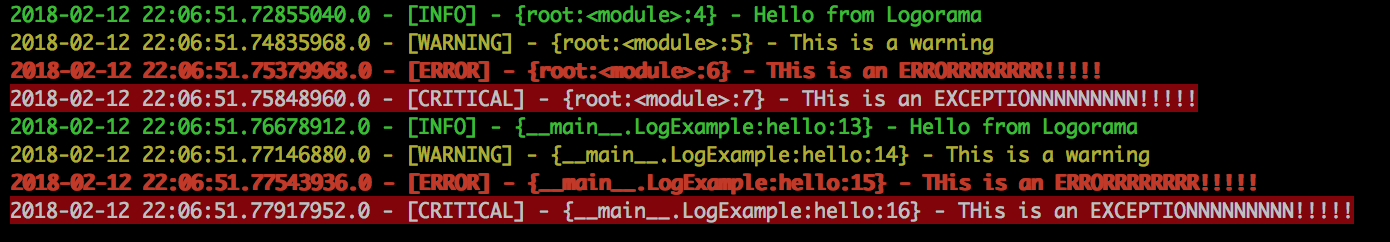
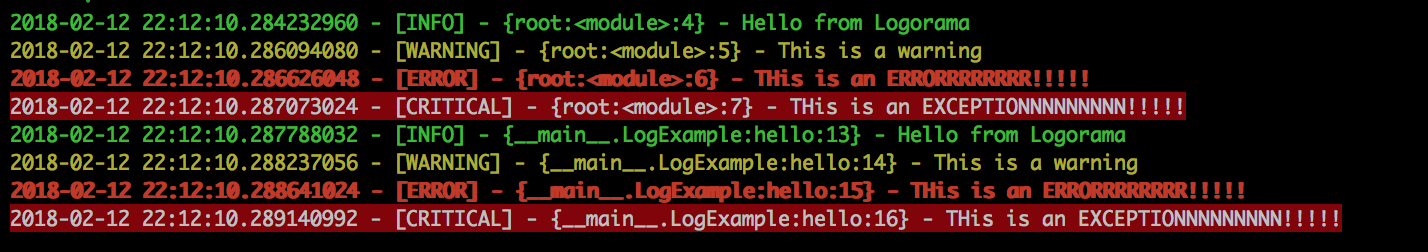
Added another logger example

diff --git a/README.md b/README.md
@@ -28,5 +28,39 @@ log_ex.hello()
 
 ![alt text](./example1.png "Example 1")
 
+Here is another example. We activate **DEBUG** logging.
+
+```
+import logging
+from logorama.settings import LOGORAMA_DEFAULT_FORMAT
+import colorama
+
+from logorama import logger, BaseLogger
+
+logger.setLevel(logging.DEBUG)
+
+logger.debug("Debugging...")
+logger.info("Hello from Logorama")
+logger.warning("This is a warning")
+logger.error("THis is an ERRORRRRRRRR!!!!!")
+logger.critical("THis is an EXCEPTIONNNNNNNNN!!!!!")
+
+
+class LogExample(BaseLogger):
+    def hello(self):
+        self.logger.debug("Debugging...")
+        self.logger.info("Hello from Logorama")
+        self.logger.warning("This is a warning")
+        self.logger.error("THis is an ERRORRRRRRRR!!!!!")
+        self.logger.critical("THis is an EXCEPTIONNNNNNNNN!!!!!")
+
+
+log_ex = LogExample()
+log_ex.logger.setLevel(logging.DEBUG)
+log_ex.hello()
+```
+
+
+
 
 
